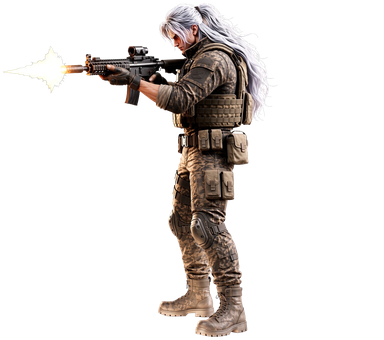
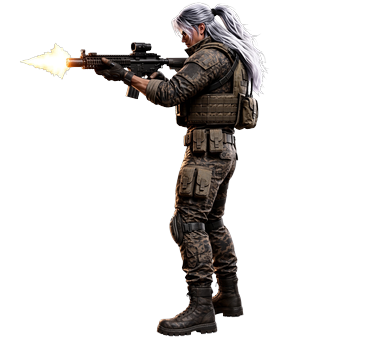
Replace LEFT/WEST FIRE sprite with new supplied image
- assets/alexandre/left_fire.png replaced with the newly attached
  left-facing firing render; pixels used as-is (crop + alpha-mask cleanup
  only, no regeneration/redraw) — source already had real alpha
  transparency, no background removal needed, no edge clipping found
- Alpha-cropped to its own connected region, scaled and pasted onto the
  exact same shared canvas geometry as the other 7 sprites (384x340,
  same foot-baseline/center-of-mass anchor) so switching between
  left_aim and the new left_fire causes no jump or size change
- Added LEFT_FIRE_MUZZLE_DX/DY: a fixed screen-space muzzle point
  measured from this asset's flash position, applied only when
  baseDir === 'left' inside spawnBullet(), mirroring the RIGHT_FIRE
  correction added previously. Bullet velocity/direction still comes
  from getAimAngle() exactly as before — only the spawn position for
  this one case changed, not the aiming math (angleToBucket, +-45 clamp,
  AIM STICK handling are all untouched)
- Verified UP/DOWN/RIGHT sprites and firing directions are unaffected;
  LEFT AIM<->FIRE cycling during a FIRE hold shows the new image with no
  position/size jump; bullets travel exactly along the aim angle
- Original attached image kept at
  assets/alexandre/source/left_fire_source_v2.png for provenance
  (previous left_fire source kept alongside, untouched)

Changed region(s): [[0.0625, 0.0, 0.6875, 1.0], [0.0, 0.2059, 0.0625, 0.2353]]

diff --git a/game.js b/game.js
@@ -316,15 +316,18 @@
   const FIRE_INTERVAL = 170; // ms
   const FIRE_POSE_DURATION = 80; // ms — how long the FIRE sprite shows per shot
   const MUZZLE_DIST = SPRITE_DRAW_H * 0.46; // same muzzle offset used previously
-  // The replacement RIGHT/FIRE sprite's muzzle flash sits at a fixed point
-  // on screen (measured directly from the asset), noticeably higher and
-  // further out than the generic radial offset above. The sprite doesn't
-  // rotate with the fine aim angle inside the +-45 cone, so a fixed
-  // screen-space point is the correct match for it, not another radial
-  // formula. Scoped to RIGHT + FIRE only — every other direction/pose still
-  // uses the generic MUZZLE_DIST radial offset above, unchanged.
+  // The replacement RIGHT/FIRE and LEFT/FIRE sprites each have their muzzle
+  // flash at a fixed point on screen (measured directly from each asset),
+  // noticeably higher and further out than the generic radial offset above.
+  // The sprite doesn't rotate with the fine aim angle inside the +-45 cone,
+  // so a fixed screen-space point is the correct match for it, not another
+  // radial formula. Scoped to RIGHT+FIRE / LEFT+FIRE only — every other
+  // direction/pose still uses the generic MUZZLE_DIST radial offset above,
+  // unchanged.
   const RIGHT_FIRE_MUZZLE_DX = SPRITE_DRAW_H * 0.503;
   const RIGHT_FIRE_MUZZLE_DY = SPRITE_DRAW_H * -0.253;
+  const LEFT_FIRE_MUZZLE_DX = SPRITE_DRAW_H * -0.506;
+  const LEFT_FIRE_MUZZLE_DY = SPRITE_DRAW_H * -0.321;
   let lastFireTime = -Infinity;
 
   function spawnBullet() {
@@ -333,6 +336,9 @@
     if (player.baseDir === 'right') {
       bx = player.x + RIGHT_FIRE_MUZZLE_DX;
       by = player.y + RIGHT_FIRE_MUZZLE_DY;
+    } else if (player.baseDir === 'left') {
+      bx = player.x + LEFT_FIRE_MUZZLE_DX;
+      by = player.y + LEFT_FIRE_MUZZLE_DY;
     } else {
       bx = player.x + Math.cos(angle) * MUZZLE_DIST;
       by = player.y + Math.sin(angle) * MUZZLE_DIST;
